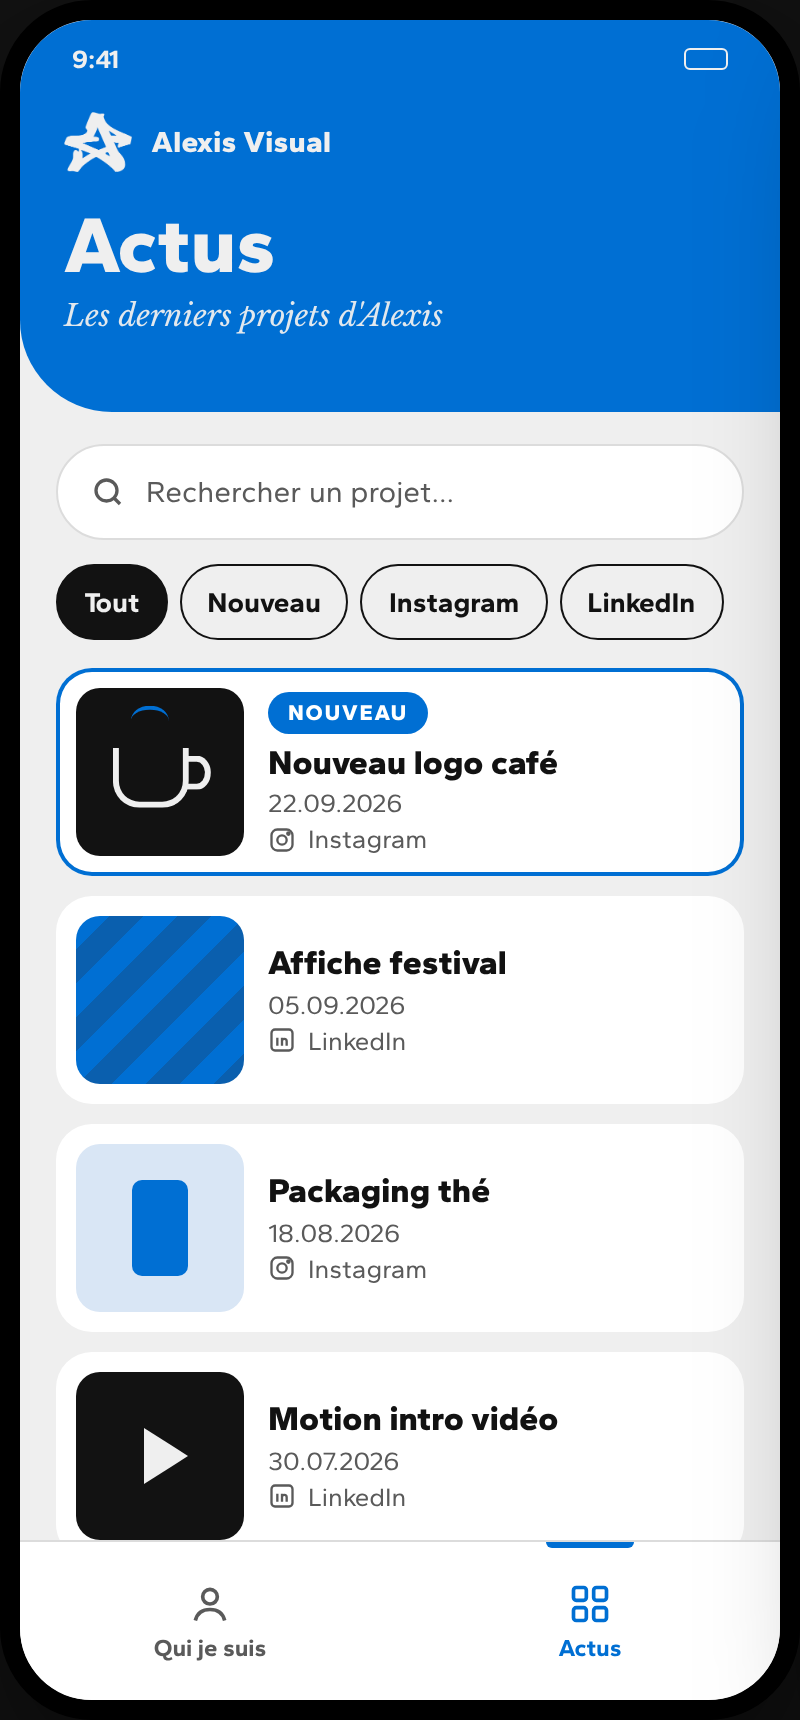
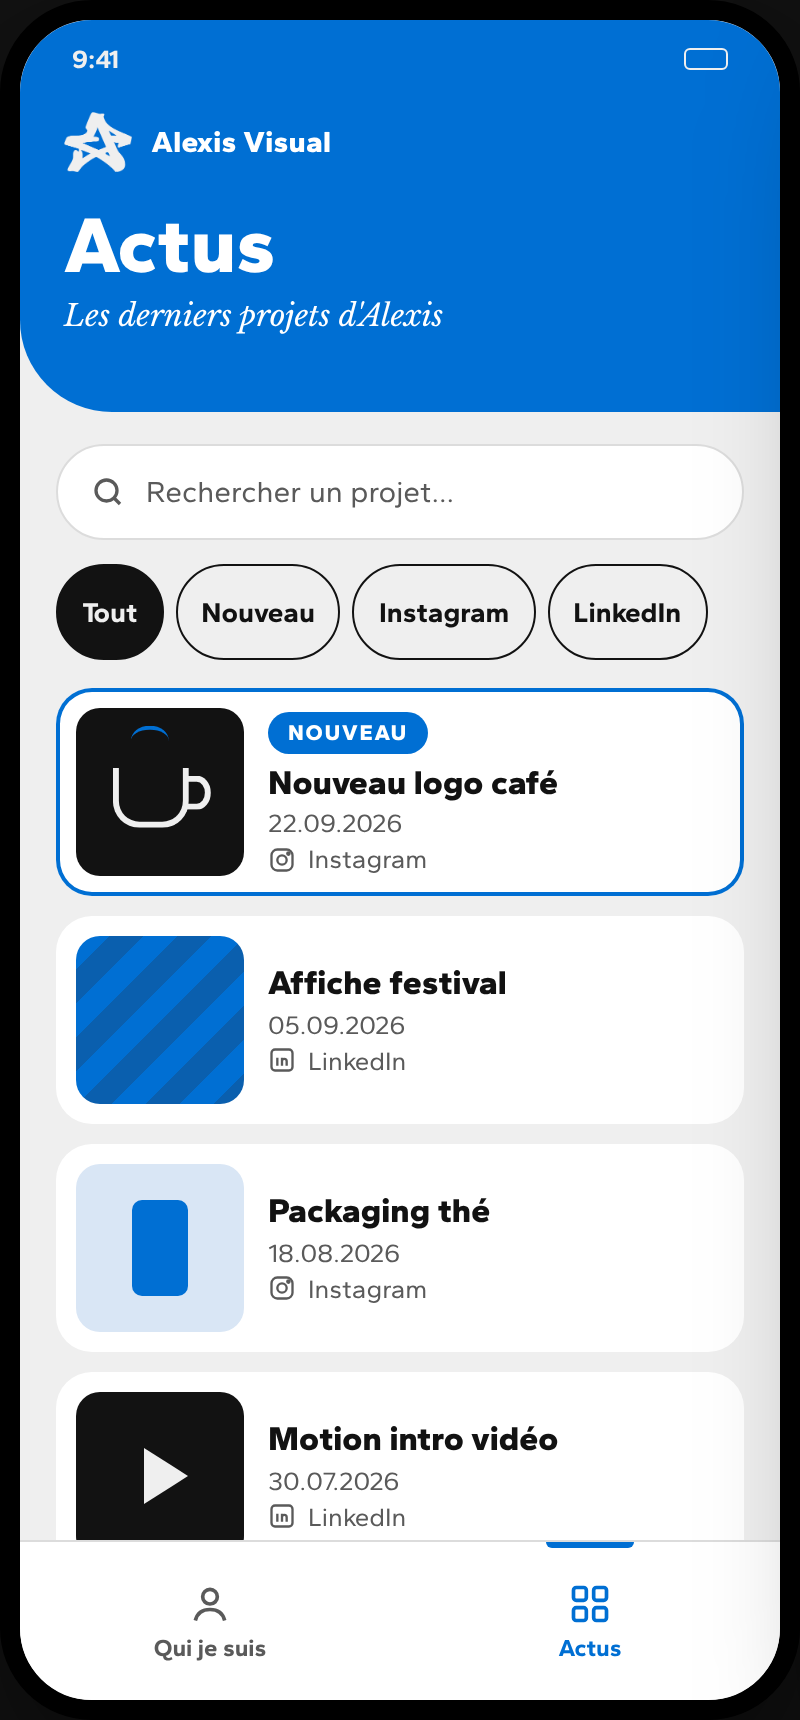
Corrige les contrastes (blanc sur l'en-tête, bleu texte #0063bd) et passe les cibles à 48 px

diff --git a/design/direction-artistique.md b/design/direction-artistique.md
@@ -23,12 +23,17 @@ Dans l'app : logo clair dans l'en-tête bleu, en filigrane sur « Qui je suis »
 |---|---|---|
 | Clair | `#efefef` | fond des écrans |
 | Noir | `#121212` | texte, puce de filtre active, fond des visuels sombres |
-| Bleu | `#006fd3` | badge « NOUVEAU », onglet actif, boutons, en-têtes, étiquettes |
+| Bleu | `#006fd3` | aplats : badge « NOUVEAU », boutons, en-têtes ; texte bleu sur fond blanc (étiquettes, onglet actif) |
+| Bleu texte (ajouté en s8) | `#0063bd` | petit texte bleu posé sur le fond clair `#efefef` (liens, « Médiamatique · Lausanne ») |
 | Blanc (neutre ajouté) | `#ffffff` | cartes, barre de recherche, barre d'onglets |
 | Gris (neutre ajouté) | `#5a5a5a` | dates, textes secondaires |
 | Erreur (ajouté) | `#c62828` | messages d'erreur du formulaire, toujours avec un texte |
 
-**Règle d'accessibilité :** le bleu `#006fd3` sur le clair `#efefef` ne fait que 4,3:1. Le petit texte bleu va donc **sur une carte blanche** (5,0:1), et le bleu sur fond clair est réservé aux grands titres et aux aplats.
+**Règles d'accessibilité (audit s8, détail dans `tests-utilisateurs.md`) :**
+
+- `#006fd3` sur `#efefef` = 4,33:1 : interdit pour le petit texte → utiliser `#0063bd` (5,19:1) ou poser le texte sur du blanc (4,98:1).
+- Sur l'en-tête bleu, le petit texte est en **blanc pur** `#ffffff` (4,98:1), pas en `#efefef` (4,33:1).
+- Cibles tactiles : 48 px de haut minimum (puces, boutons, liens).
 
 ## Typographies
 
@@ -52,6 +57,7 @@ Baskerville Old Face n'est pas une police web libre : Libre Baskerville est la v
   --clair: #efefef;
   --noir: #121212;
   --bleu: #006fd3;
+  --bleu-texte: #0063bd;
   --blanc: #ffffff;
   --gris: #5a5a5a;
   --erreur: #c62828;
